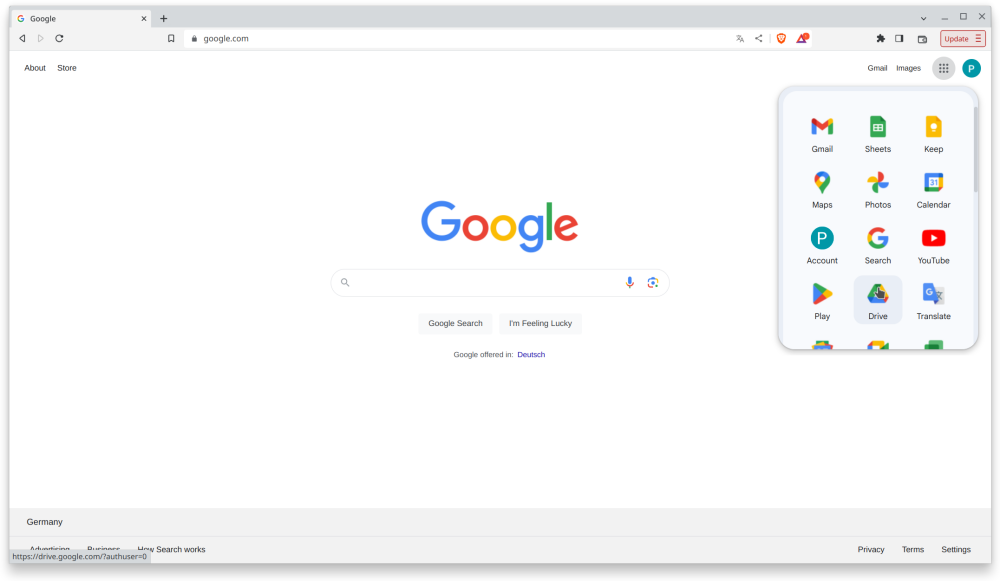
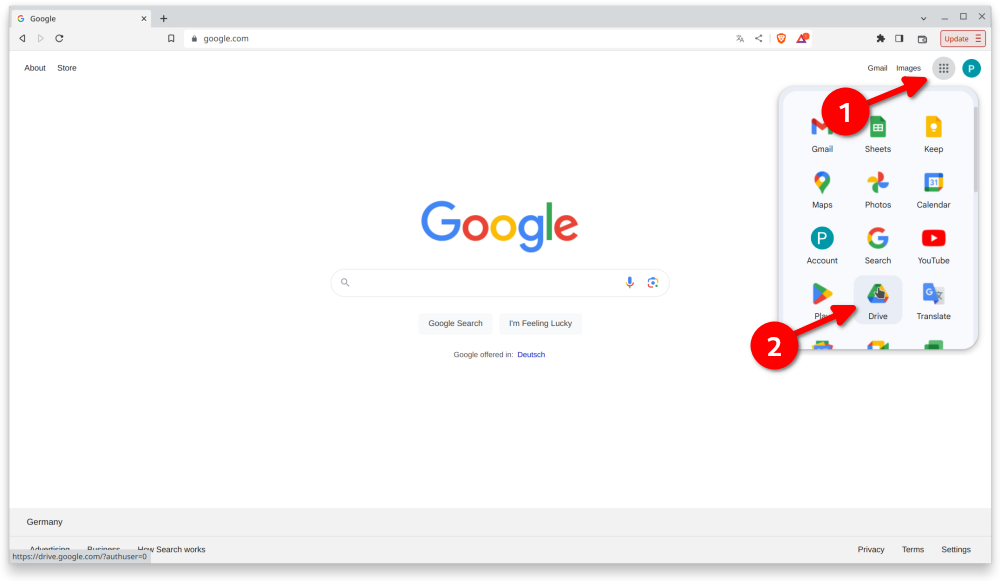
repair of the installation documentation and moving dedicated google account into advanced setting up as it confuses new users

Changed region(s): [[0.806, 0.1239, 0.93, 0.2478], [0.744, 0.5267, 0.868, 0.6506]]

diff --git a/docs/EN/Installing-AndroidAPS/Transferring-and-installing-AAPS.md b/docs/EN/Installing-AndroidAPS/Transferring-and-installing-AAPS.md
@@ -1,4 +1,4 @@
-# Transferring, and Installing AAPS on your smartphone
+# Transferring and Installing AAPS on your smartphone
 
 In the previous section, [building **AAPS**](../building-AAPS.md), you built the **AAPS** app (which is an .apk file) on a computer. 
 
@@ -8,108 +8,60 @@ Following installation of **AAPS** on the smartphone, you will then be able to m
 
 There are several ways to transfer the **AAPS** APK file from your computer to the smartphone. Here we explain two different ways: 
 
-* Option 1-  Use a USB cable
-* Option 2 -  Use your Google drive (Gdrive)
+* Option 1 -  Use your Google drive (Gdrive)
+* Option 2 -  Use a USB cable
 
 Please note that transfer by email might cause difficulties, and is discouraged.
 
-## Option 1. Use a USB cable to transfer files
-The easiest way to transfer the AAPS apk file is with a  [USB cable](https://support.google.com/android/answer/9064445?hl=en). Transfer the file from its location on your computer to the "downloads" folder on the phone. 
+## Option 1. Use Google drive to transfer files
 
-On your phone, you will have to allow installation from unknown sources. Explanations of how to do this can be found on the internet (_e.g._ [here](https://www.expressvpn.com/de/support/vpn-setup/enable-apk-installs-android/) or [here](https://www.androidcentral.com/unknown-sources)).
+Open [Google.com](https://www.google.com/) in your web browser and login to your Google Account.
 
-Once you have transferred the file by dragging it across, to install it, open the "downloads" folder on the phone, press the AAPS apk and select "install". You can then proceed to the next step, [Setup Wizard](../Installing-AndroidAPS/setup-wizard.md), which will help you setup the **AAPS** app and loop on your smartphone.    
-
-## Option 2. Use Google drive to transfer files
-
-### **Mount a Google drive on your PC & Phone**
-
-(⌛About 10 minutes )\
-![](../images/Building-the-App/building_0015.png)
-
- By using **Google Drive (G drive)** to do the transfer and installation, you automatically have a **backup copy** of the apk file, which is useful if you lose or break your computer or smartphone.
-
-A **Gmail** account provides access to free cloud storage from Gdrive which can be accessed directly as a “virtual” drive from both your PC AND your phone. You can use this feature to backup important settings/files in Gdrive and to share files between the phone and the PC.
-If you have not done so already, install Gdrive on your PC: 
-
-:::{admonition}  Video Walkthrough! 
-:class: Note
-Click [here](<https://drive.google.com/file/d/1EnaQ7U8U7M84vOFjcMRoB43dNwqUuLty/view?usp=drive_link>) for a video walkthrough of how to install Gdrive on your PC.
-:::
-
-The steps are as follows: 
-
-1. Go to <https://drive.google.com/> 
-
-2. Use your **Gmail** account to login (if you have an “**AAPS**-dedicated” Gmail account, switch to this account from the profile window)
-
-3. From the gear icon next to your profile picture, select “Get drive for desktop”  
-
-4. Download & Install the Gdrive application on your PC
-
-5. By default, Gdrive will appear on your PC as G:\My Drive. We suggest creating three subfolders under "My Drive":
-
-   - AAPS\_APK  \
-     (To store your own versions of the **AAPS** application as you build it and update it over time)
-   - AAPS\_CONFIG\_BACKUP\
-     (Where you will keep a backup of your **AAPS** phone configurations over time)
-   - AAPS\_SECRETS \
-     (Where you will keep passwords required to rebuild the application and facilitate updates over time)
-
-6. It is advisable to share these folders with your significant others, in case they need to re-access or re-build the app for you. 
-
-   - (1) Right click on the folder 3 vertical dots menu
-   - (2) Click Share 
-   - (3) Click Share 
-   - Enter the email address of the people you will want to grant access to…\
-     ![](../images/Building-the-App/building_0016.png)
-
-7. Download & install “Google drive” on your phone from the Playstore link
-
-:::{admonition}  Video Walkthrough! 
-:class: Note
-Click [here](<https://drive.google.com/file/d/1--qwxp95cG8pwCv1pDFZuuOl6ue22W4H/view?usp=drive_link>) for a  2 minute video walkthrough of how to download and install the Google drive on your smartphone
-:::
-
-* If you use an **AAPS**-dedicated **Gmail** account, make sure that you configure Google drive on your phone to use the correct account by clicking on the profile picture.
-
-
-8. Transfer the file(s) from your PC to your phone:
-
-a) Open [Google.com](https://www.google.com/) in your web browser.
-
-b) On the right upper side select the Drive app in the Google menu.
+On the right upper side select the Drive app in the Google menu.
 
 ![Start Drive App](../images/GoogleDriveInWebbrowser.png)
 
-c) Right-click in the free area below the files and folders in the **Google Drive** app and select "Upload File".
+Right click in the free area below the files and folders in the Google Drive app and select "Upload File".
 
 ![Upload apk file with Google Drive App](../images/GoogleDriveUploadFile.png)
 
-d) The apk file should now be uploaded on Google Drive.
+The apk file should now be uploaded on Google Drive.
 
-9. Install  the **AAPS** APK file on your Android smartphone
 
-a) Switch to working on your Android smartphone, and start the **Google Drive** app, which should be preinstalled on the phone. 
+### use the Google Drive app to excute the apk file for installation
+
+Switch to your mobile and start the Google Drive app. It is a preinstalled app and can be found where the other Google apps are located or with search for the name of the app.
 
 ![start the Google Drive app](../images/GoogleDriveMobileAPPLaunch.png)
 
-b) Launch installation of the **AAPS** apk by double-clicking on the filename in the **Google Drive** App.
+Launch the apk installation by double click on the filename in the Google Drive App on the mobile.
 
 ![launch the apk installation](../images/GoogleDriveMobileUploadedAPK.png)
 
-c) If you get a security notice that you are "not allowed to install apps from **Google Drive**", allow it while you are installing the app, and then disallow it afterwards, to prevent it being a security risk.
+In case you get a security notice that you are not allowed to install apps from Google Driver at the moment please allow it for that short moment and disallow it afterwards as it is a security risk when you let it enable all the time.
 
 ![Security Notice Google Drive](../images/GoogleDriveMobileMissingSecuritySetting.png)
 
 ![Security Notice Google Drive](../images/GoogleDriveMobileSettingSecuritySetting.png)
 
-d) Now that you have installed **AAPS** on the Android smartphone you should see the **AAPS** icon and be able to open the app. 
+After the installation finished your are done with this step.
+
+you should see the **AAPS** icon and be able to open the app.
 
 ```{warning}
 **IMPORTANT SAFETY NOTICE**
-
-Did you remember to disallow the installation from Google Drive?
-
+Did you remeber to disallow the installation from Google Drive?
 ```
-Congratulations! Now you can continue with the next section, [Setup Wizard](../Installing-AndroidAPS/setup-wizard.md).
+
+Please go on with [configuring the AAPS loop](configuring-the-AAPS-loop.md).
+---
+
+## Option 2. Use a USB cable to transfer files
+The second way to transfer the AAPS apk file is with a  [USB cable](https://support.google.com/android/answer/9064445?hl=en).
+
+Transfer the file from its location on your computer to the "downloads" folder on the phone. 
+
+On your phone, you will have to allow installation from unknown sources. Explanations of how to do this can be found on the internet (_e.g._ [here](https://www.expressvpn.com/de/support/vpn-setup/enable-apk-installs-android/) or [here](https://www.androidcentral.com/unknown-sources)).
+
+Once you have transferred the file by dragging it across, to install it, open the "downloads" folder on the phone, press the AAPS apk and select "install". You can then proceed to the next step, [Setup Wizard](../Installing-AndroidAPS/setup-wizard.md), which will help you setup the **AAPS** app and loop on your smartphone.    
+

diff --git a/docs/EN/index.md b/docs/EN/index.md
@@ -81,7 +81,6 @@ Docs updates & changes <./Getting-Started/WikiUpdate.md>
 :caption: Setting up AAPS
 
 Setting up the reporting server <./Installing-AndroidAPS/setting-up-the-reporting-server.md>
-Dedicated Google account for AAPS (optional)<./Installing-AndroidAPS/Dedicated-Google-account-for-AAPS.md>
 Building AAPS <./Installing-AndroidAPS/building-AAPS.md>
 Transferring and Installing AAPS <./Installing-AndroidAPS/Transferring-and-installing-AAPS.md>
 Setup Wizard<./Installing-AndroidAPS/setup-wizard.md>
@@ -105,6 +104,8 @@ Release notes <./Installing-AndroidAPS/Releasenotes.md>
 Update to a new version or branch <./Installing-AndroidAPS/Update-to-new-version.md>
 
 Dev branch <./Installing-AndroidAPS/Dev_branch.md>
+
+Dedicated Google account for AAPS (optional)<./Installing-AndroidAPS/Dedicated-Google-account-for-AAPS.md>
 
 ```
 
